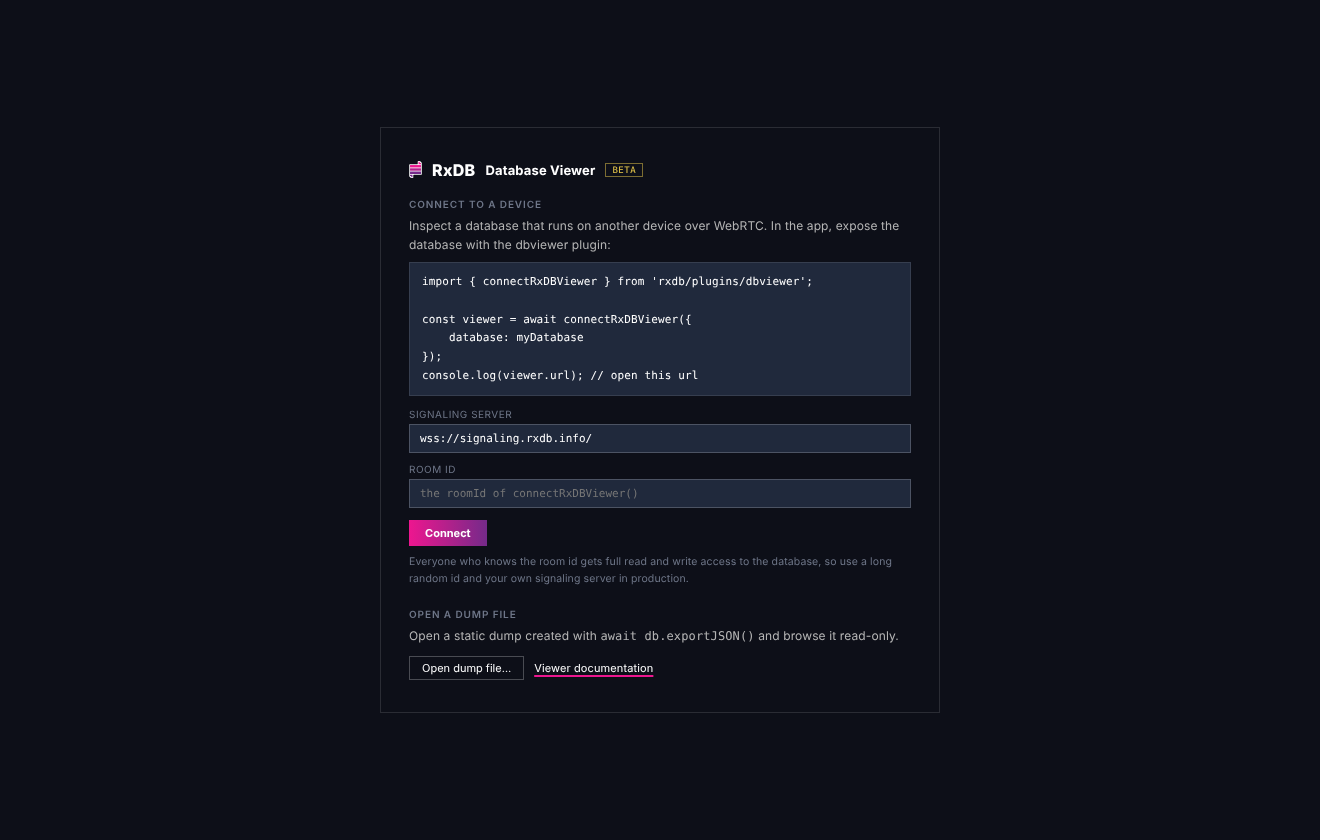
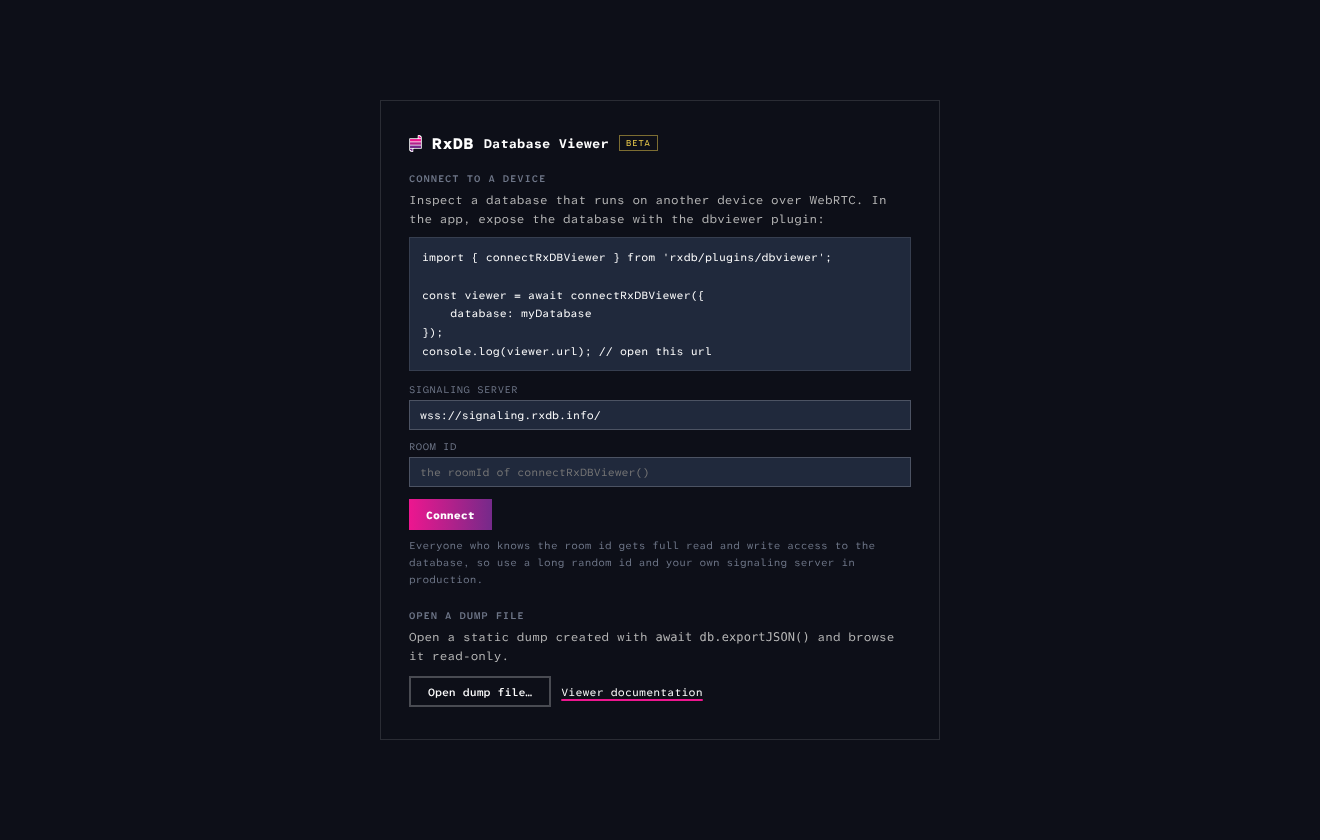
dbviewer: brand font and fixed button proportions from the landing page
All viewer buttons now use the fixed proportions of the landing
page button component: 45px height, 25px side padding and a 2px
border at a 16px font, scaled to the viewer font sizes
(11px -> 31px height and 17px padding, small 10px -> 28px/16px).
The border width stays 2px at every size, so the buttons look
the same everywhere in the UI. Icon-only buttons and the pager
are square. The page also uses the same font as rxdb.info,
Atkinson Hyperlegible Mono: the build extracts the @font-face
data uri from the docs css and inlines it, which keeps the page
self-contained for offline hosting. The docs screenshots were
regenerated with the new font and buttons.

Claude-Session: https://claude.ai/code/session_01XSWnG8xBeMGgwaLKniRnyJ

Changed region(s): [[0.3106, 0.1548, 0.7144, 0.8667]]

diff --git a/docs-src/dbviewer/styles.ts b/docs-src/dbviewer/styles.ts
@@ -27,8 +27,13 @@ export const DBVIEWER_STYLES = `
     --rxdbv-info: #199BF1;
     --rxdbv-violet: #9B6BFF;
     --rxdbv-gradient: linear-gradient(90deg, #ED168F, #B2218B, #752A8A);
-    --rxdbv-font: system-ui, 'Segoe UI', Helvetica, Arial, sans-serif;
-    --rxdbv-mono: ui-monospace, Menlo, Consolas, monospace;
+    /**
+     * Same font stack as the docs pages (--ifm-font-family-base
+     * in docs-src/src/css/custom.css). The @font-face for it is
+     * inlined into the page by scripts/build-dbviewer.mjs.
+     */
+    --rxdbv-font: 'Atkinson Hyperlegible Mono', ui-monospace, SFMono-Regular, Menlo, Consolas, 'Liberation Mono', 'DejaVu Sans Mono', monospace;
+    --rxdbv-mono: 'Atkinson Hyperlegible Mono', ui-monospace, SFMono-Regular, Menlo, Consolas, 'Liberation Mono', 'DejaVu Sans Mono', monospace;
 
     display: flex;
     flex-direction: column;
@@ -69,12 +74,26 @@ export const DBVIEWER_STYLES = `
 @keyframes rxdbvThread { from { background-position: 0 0; } to { background-position: -16px 0; } }
 
 /* buttons */
+/**
+ * All buttons use the fixed proportions of the landing page
+ * button (docs-src/src/components/button.tsx): 45px height,
+ * 25px side padding and a 2px border at a 16px font, scaled
+ * to the viewer font sizes (11px -> 31px/17px, 10px -> 28px/16px).
+ * The border width stays 2px at every size.
+ */
 .rxdbv-btn {
-    border: 1px solid rgba(255, 255, 255, 0.25);
+    box-sizing: border-box;
+    display: inline-flex;
+    align-items: center;
+    justify-content: center;
+    gap: 7px;
+    height: 31px;
+    padding: 0 17px;
+    border: 2px solid rgba(255, 255, 255, 0.25);
     background: transparent;
     color: var(--rxdbv-fg);
     font-size: 11px;
-    padding: 4px 12px;
+    font-weight: 500;
     border-radius: 0;
     cursor: pointer;
     font-family: inherit;
@@ -84,14 +103,21 @@ export const DBVIEWER_STYLES = `
 .rxdbv-btn:active { transform: translateY(1px); }
 .rxdbv-btn:disabled { opacity: 0.5; cursor: default; }
 .rxdbv-btn:disabled:hover { background: transparent; color: var(--rxdbv-fg); }
-.rxdbv-btn-small { font-size: 10px; padding: 3px 10px; }
+.rxdbv-btn-small { font-size: 10px; height: 28px; padding: 0 16px; }
+.rxdbv-btn-icon { width: 31px; padding: 0; }
 .rxdbv-btn-primary {
+    box-sizing: border-box;
+    display: inline-flex;
+    align-items: center;
+    justify-content: center;
+    gap: 7px;
+    height: 31px;
+    padding: 0 17px;
     border: 0;
     background: var(--rxdbv-gradient);
     color: var(--rxdbv-fg);
-    font-weight: 700;
+    font-weight: 800;
     font-size: 11px;
-    padding: 6px 16px;
     border-radius: 0;
     cursor: pointer;
     font-family: inherit;
@@ -100,12 +126,17 @@ export const DBVIEWER_STYLES = `
 .rxdbv-btn-primary:active { transform: translateY(1px); }
 .rxdbv-btn-primary:disabled { opacity: 0.4; cursor: default; }
 .rxdbv-btn-danger-outline {
-    border: 1px solid var(--rxdbv-danger);
+    box-sizing: border-box;
+    display: inline-flex;
+    align-items: center;
+    justify-content: center;
+    height: 31px;
+    padding: 0 17px;
+    border: 2px solid var(--rxdbv-danger);
     background: transparent;
     color: var(--rxdbv-danger);
     font-weight: 700;
     font-size: 11px;
-    padding: 6px 14px;
     border-radius: 0;
     cursor: pointer;
     font-family: inherit;
@@ -372,11 +403,17 @@ export const DBVIEWER_STYLES = `
     flex-wrap: wrap;
 }
 .rxdbv-pager {
-    border: 1px solid rgba(255, 255, 255, 0.20);
+    box-sizing: border-box;
+    display: inline-flex;
+    align-items: center;
+    justify-content: center;
+    width: 28px;
+    height: 28px;
+    padding: 0;
+    border: 2px solid rgba(255, 255, 255, 0.20);
     background: transparent;
     color: var(--rxdbv-fg);
     font-size: 11px;
-    padding: 2px 8px;
     border-radius: 0;
     cursor: pointer;
     font-family: inherit;
@@ -514,12 +551,17 @@ export const DBVIEWER_STYLES = `
 }
 .rxdbv-modal-actions { display: flex; gap: 8px; justify-content: flex-end; margin-top: 16px; }
 .rxdbv-btn-danger-solid {
+    box-sizing: border-box;
+    display: inline-flex;
+    align-items: center;
+    justify-content: center;
+    height: 31px;
+    padding: 0 17px;
     border: 0;
     background: var(--rxdbv-danger);
     color: var(--rxdbv-fg);
     font-weight: 700;
     font-size: 11px;
-    padding: 6px 14px;
     border-radius: 0;
     cursor: pointer;
     font-family: inherit;

diff --git a/docs-src/dbviewer/App.tsx b/docs-src/dbviewer/App.tsx
@@ -266,13 +266,13 @@ export function ViewerApp(props: ViewerAppProps) {
                         }}
                     >Refresh</button>
                     <button
-                        className="rxdbv-btn"
+                        className="rxdbv-btn rxdbv-btn-icon"
                         title="Open the RxDB documentation"
                         onClick={() => window.open(VIEWER_DOCS_BASE_URL + 'dbviewer.html', '_blank')}
                     >?</button>
                     {props.showCloseButton ? (
                         <button
-                            className="rxdbv-btn"
+                            className="rxdbv-btn rxdbv-btn-icon"
                             title="Close the viewer"
                             onClick={() => ctx.requestClose()}
                         >×</button>
